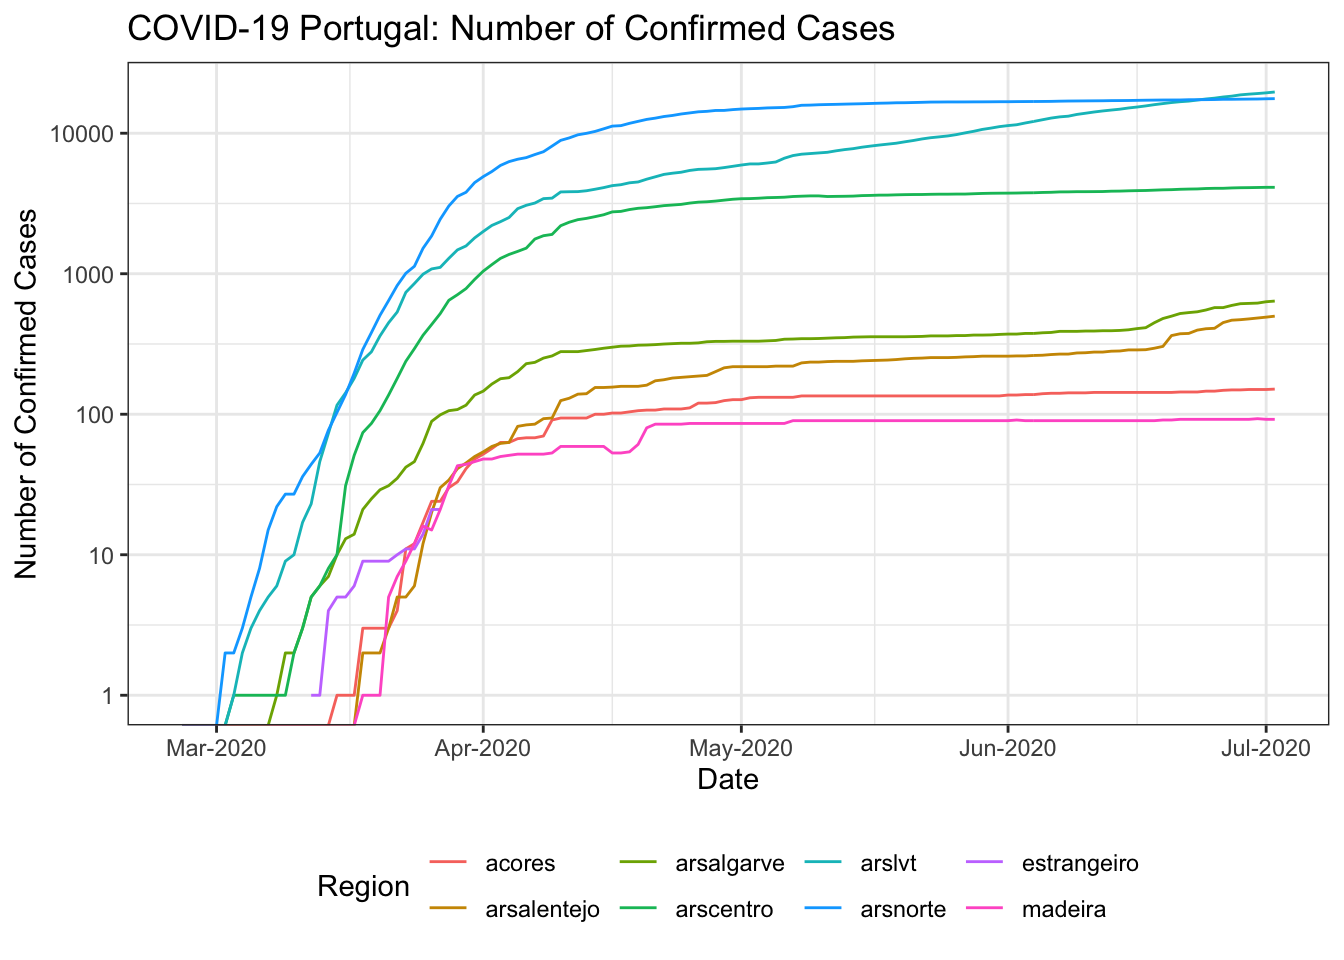
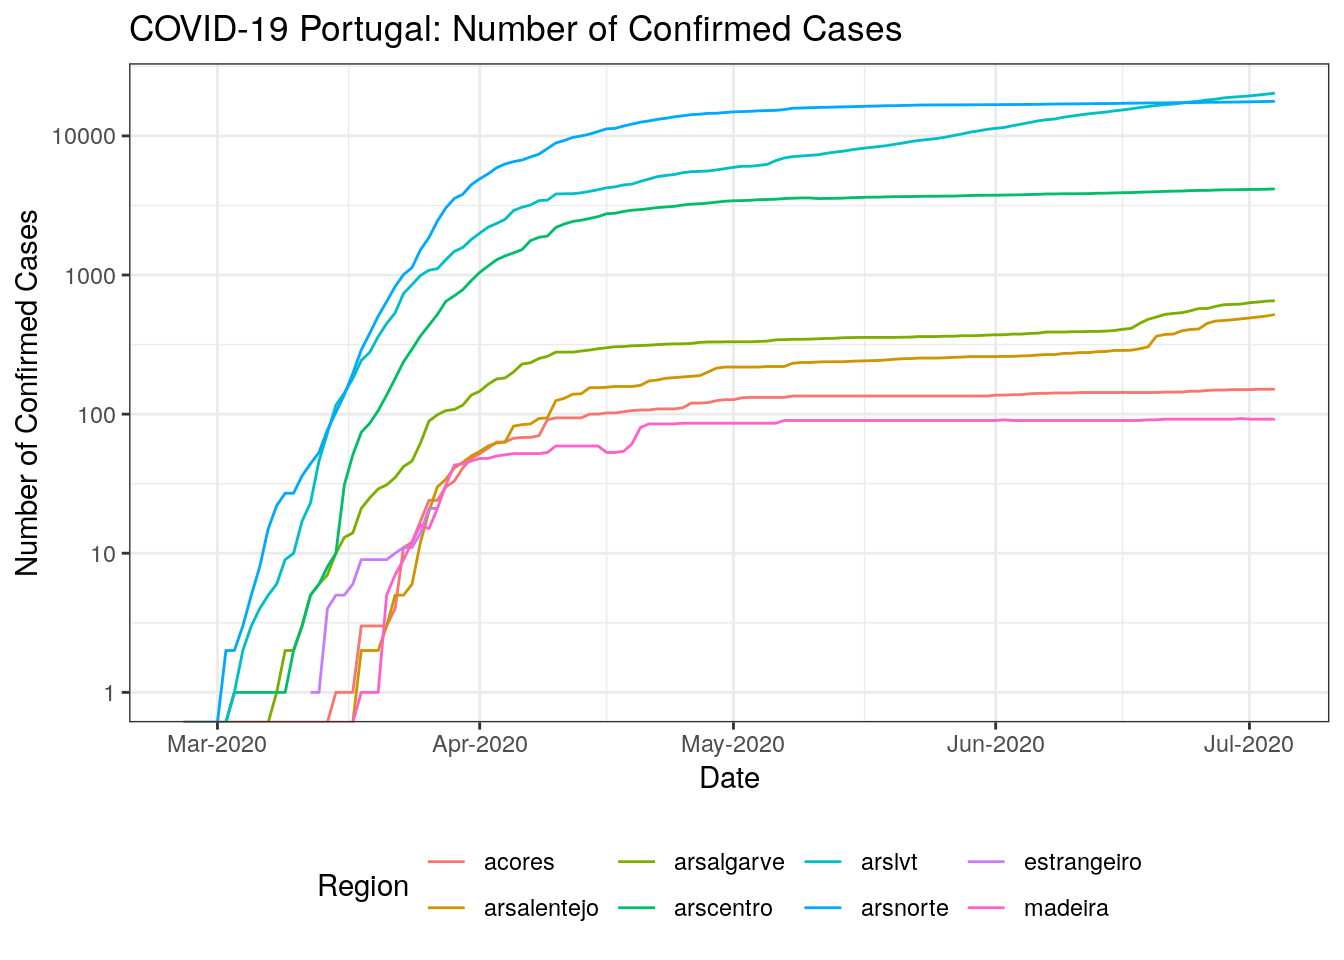
Fixed data downloading issue. Minor updates to README.

diff --git a/README.md b/README.md
@@ -1,7 +1,9 @@
 
 # Portuguese COVID-19 Data
 
-**Last updated:** Sat 04 Jul 2020 (03:26:32 UTC \[+0000\])
+**Last updated:** Sat 04 Jul 2020 (17:02:35 WEST \[+0100\])
+
+  - Data available from **2020-02-26** until **2020-07-04** (130 days).
 
 ## Download User Friendly Version
 
@@ -12,12 +14,6 @@ of the Portuguese COVID-19 data.
     **[covid19pt\_DSSG\_Long.csv](https://raw.githubusercontent.com/saghirb/Dados_COVID-19_PT/master/data/covid19pt_DSSG_Long.csv)**
   - Download the original unprocessed data (json to CSV):
     **[covid19pt\_DSSG\_Orig.csv](https://raw.githubusercontent.com/saghirb/Dados_COVID-19_PT/master/data/covid19pt_DSSG_Orig.csv)**
-
-### Data Meta Information
-
-  - **Start date:** 2020-02-26
-  - **End Date:** 2020-07-02
-  - **Number of days:** 128
 
 ### Source
 
@@ -47,7 +43,7 @@ theme_set(theme_bw())
 # Read in data as a data.frame and data.table object.
 CV <- fread(here("data", "covid19pt_DSSG_Long.csv"))
 str(CV)
-## Classes 'data.table' and 'data.frame':   10752 obs. of  12 variables:
+## Classes 'data.table' and 'data.frame':   10920 obs. of  12 variables:
 ##  $ data       : chr  "2020-02-26" "2020-02-27" "2020-02-28" "2020-02-29" ...
 ##  $ origVars   : chr  "cadeias_transmissao" "cadeias_transmissao" "cadeias_transmissao" "cadeias_transmissao" ...
 ##  $ origType   : chr  "cadeias" "cadeias" "cadeias" "cadeias" ...
@@ -104,7 +100,7 @@ CV[origType=="confirmados" & ageGrp=="" & region!="Portugal"] %>%
     y = "Number of Confirmed Cases",
     colour = "Region")
 ## Warning: Transformation introduced infinite values in continuous y-axis
-## Warning: Removed 112 row(s) containing missing values (geom_path).
+## Warning: Removed 114 row(s) containing missing values (geom_path).
 ```
 
 <img src="README_figs/README-casesbyRegion-1.png" width="672" />
@@ -123,9 +119,9 @@ CV[dayChange<0][
 ##   4: 2020-03-24 confirmados_40_49_f   224        -2
 ##   5: 2020-03-19 confirmados_60_69_f    35       -14
 ##  ---                                               
-## 299: 2020-06-17          vigilancia 30289      -521
-## 300: 2020-06-19          vigilancia 29046     -1380
-## 301: 2020-06-23          vigilancia 30248      -708
-## 302: 2020-07-01          vigilancia 31389       -25
-## 303: 2020-07-02          vigilancia 31274      -115
+## 305: 2020-06-17          vigilancia 30289      -521
+## 306: 2020-06-19          vigilancia 29046     -1380
+## 307: 2020-06-23          vigilancia 30248      -708
+## 308: 2020-07-01          vigilancia 31389       -25
+## 309: 2020-07-02          vigilancia 31274      -115
 ```
